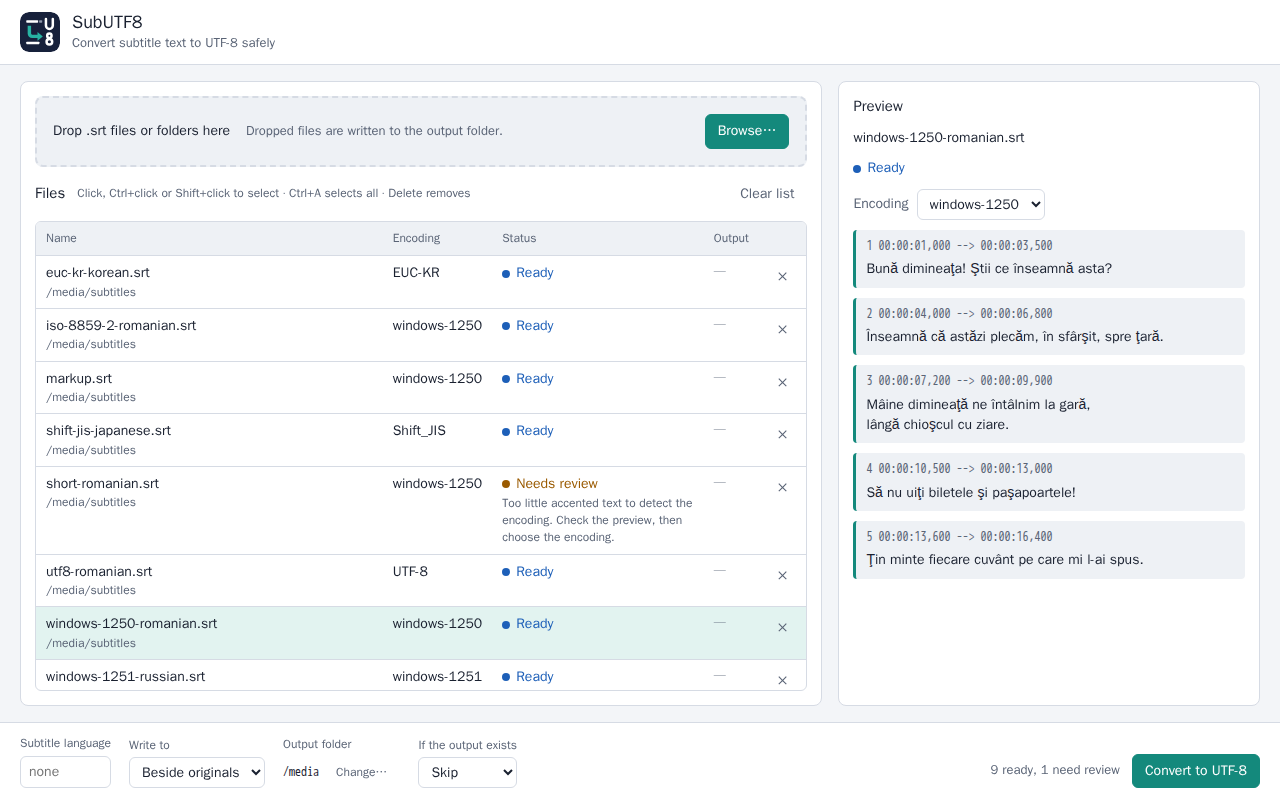
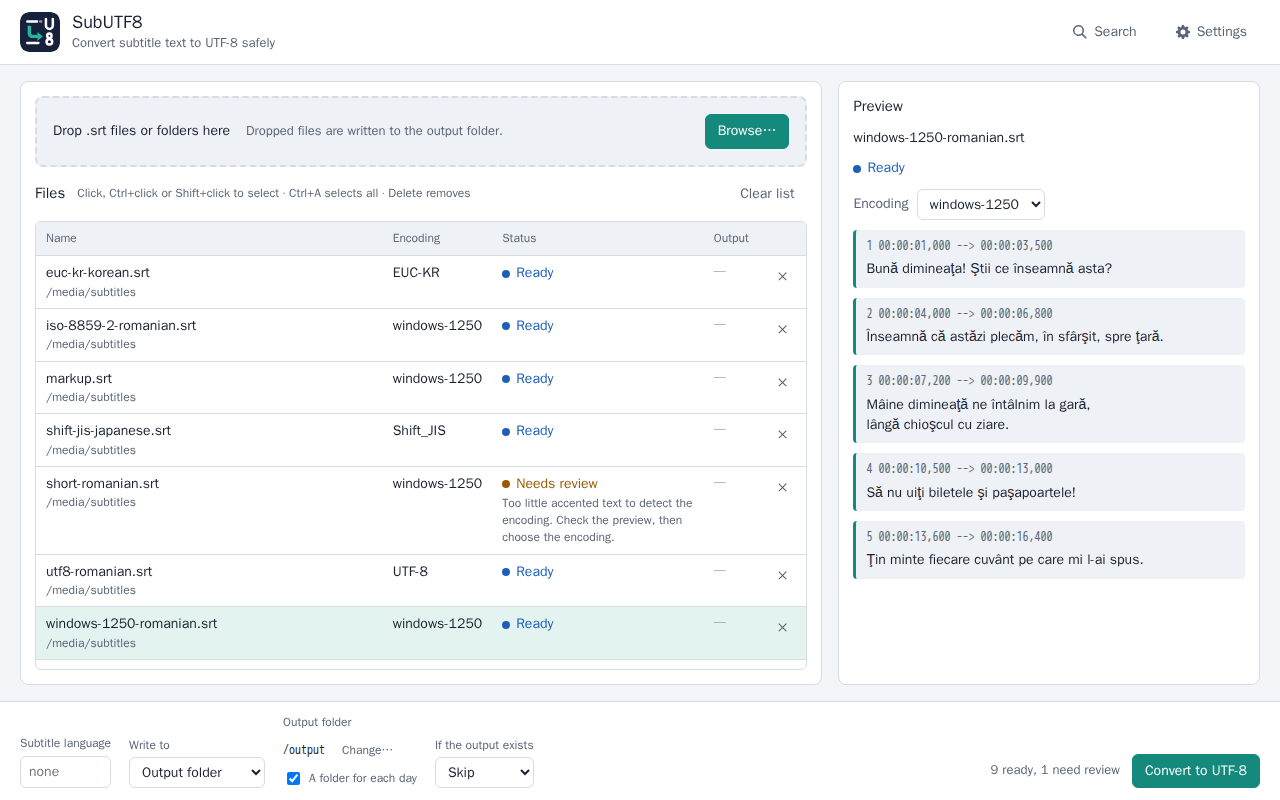
docs: README and screenshots for settings, search, watch folders and updates
The README explains Settings, the daily output folders, search, Docker
watch folders and in-app updates, the new /data and /output mounts, the
TZ, SUBUTF8_WATCH_INTERVAL and SUBUTF8_UPDATE_CHECK variables, how
updates work on each install, and that the only outgoing connection is
the daily update check to GitHub.

The screenshots show the new Search and Settings buttons, converted
files in the day's folder, and two new views: Search and Settings. They
use SubUTF8's own sample subtitles, as before.

diff --git a/README.md b/README.md
@@ -20,9 +20,17 @@ SubUTF8 converts the text encoding of `.srt` subtitle files to UTF-8 without cha
 
 ![Files and preview](docs/screenshots/files.png)
 
-**Results** — every file converted and verified, next to its untouched original:
+**Results** — every file converted and verified, in today's folder under `/output`, with the originals untouched:
 
 ![Results](docs/screenshots/results.png)
+
+**Search** — Ctrl+K finds settings, files in the list and every file converted before:
+
+![Search](docs/screenshots/search.png)
+
+**Settings** — the defaults SubUTF8 starts with, the theme and, in Docker, folders to watch:
+
+![Settings](docs/screenshots/settings.png)
 
 *The files shown are SubUTF8's own sample subtitles, in ten different encodings.*
 
@@ -41,7 +49,14 @@ SubUTF8 converts the text encoding of `.srt` subtitle files to UTF-8 without cha
 - **Originals are never changed** — outputs go beside them (`Film1.srt`, or `Film.ro.srt` with a language) or into an output folder you choose.
 - **Verified writes** — each output is written to a temporary file, read back and checked before it gets its name. A failure leaves nothing behind.
 - **Existing outputs** — skip, rename or overwrite, as you choose. A file in the list is never overwritten.
-- **Offline** — no telemetry, no update checks, no outgoing connections.
+- **Private** — no telemetry. The only outgoing connection is a check of GitHub for a newer release, once a day; turn it off in Settings or with `SUBUTF8_UPDATE_CHECK=0`.
+
+### Settings, search and automation
+- **Saved defaults** — subtitle language, where to write, output folder, what to do when an output exists, and a light or dark theme, in Settings.
+- **A folder for each day** — outputs can go into dated folders such as `2026-09-27`; in Docker, the mounted `/output` keeps every converted file this way.
+- **Search** — one box (**Ctrl+K**) finds settings, files in the list, and every file converted before, by name, folder, encoding, language or date.
+- **Watch folders (Docker)** — new subtitles in chosen folders are converted automatically with your saved defaults, once they have finished copying. Existing files are never replaced.
+- **Updates** — a notice when a new version is out. The desktop app downloads it, checks its SHA-256, installs it with your password and restarts; Docker shows the command to pull it.
 
 ### Interface
 - **File-manager selection** — click, Ctrl+click, Shift+click, Ctrl+A, the arrow keys and Delete, in the file list and in Browse.
@@ -58,11 +73,11 @@ SubUTF8 converts the text encoding of `.srt` subtitle files to UTF-8 without cha
 ```bash
 mkdir -p ~/subutf8 && cd ~/subutf8
 wget https://raw.githubusercontent.com/aiulian25/subutf8/main/docker-compose.yml
-nano docker-compose.yml # set your subtitles folder
+nano docker-compose.yml # set your subtitles folder, the output folder and your time zone
 docker compose up -d
 ```
 
-Open **http://&lt;server-ip&gt;:61880** from any machine on your network.
+Create the output folder before the first start, so it belongs to you (`PUID`/`PGID`). Open **http://&lt;server-ip&gt;:61880** from any machine on your network.
 
 > **Just pull, never build.** `ghcr.io/aiulian25/subutf8:latest` is a ready-made `linux/amd64` image.
 
@@ -85,7 +100,12 @@ sudo dnf install ./subutf8-1.0.0-1.x86_64.rpm
 chmod +x SubUTF8-1.0.0-x86_64.AppImage
 ./SubUTF8-1.0.0-x86_64.AppImage
 ```
-The first launch adds SubUTF8 to your application menu; `./SubUTF8-1.0.0-x86_64.AppImage --remove-integration` takes it out again.
+The first launch adds SubUTF8 to your application menu; `./SubUTF8-1.0.0-x86_64.AppImage --remove-integration` takes it out again. Uninstalling leaves your settings and history in `~/.config/subutf8`; delete that folder to remove them too.
+
+### Updating
+
+- **Desktop** — when a new version is out, SubUTF8 says so. **Settings → Updates → Download update**, then **Install update** (your password, in the system's own dialog) and **Restart SubUTF8**. The AppImage replaces itself.
+- **Docker** — `docker compose pull && docker compose up -d`. Settings and the history stay in the `subutf8-data` volume.
 
 ---
 
@@ -106,8 +126,11 @@ There are no arm64 builds.
 
 1. Add files with **Add files…** or **Add folder…**, which open the system's file picker, or drag `.srt` files or whole folders onto the window. In Docker, **Browse…** shows the mounted folders.
 2. Check each file's encoding and status. Select a file to preview its text; if it reads wrongly or needs review, choose another encoding. Lists select as in a file manager: Ctrl+click, Shift+click, Ctrl+A, the arrow keys and Delete.
-3. Optionally set the subtitle language, which adds a tag such as `Film.ro.srt`, where to write, and what to do when an output already exists.
+3. Optionally set the subtitle language, which adds a tag such as `Film.ro.srt`, where to write, and what to do when an output already exists. **Settings** saves these as the defaults, with the theme.
 4. Press **Convert to UTF-8** and read the results. Skipped or failed files are tried again on the next Convert, for example after choosing to overwrite.
+5. **Search** (Ctrl+K) finds any setting, any file in the list, and any file converted before, for example by typing `today` or a file name.
+
+In Docker, **Settings → Watch folders** adds folders whose new subtitles are converted automatically. Files that need a person, such as those whose encoding is unsure, wait in the list.
 
 ---
 
@@ -120,13 +143,20 @@ There are no arm64 builds.
 | `PUID` / `PGID` | `1000` | The user and group converted files belong to (`id -u`, `id -g`). Set them in a `.env` file next to `docker-compose.yml`; see [.env.example](.env.example) |
 | `SUBUTF8_BROWSE_ROOTS` | — | More folders to browse besides `/media` and `/mnt`, separated by colons. Mount them too |
 | `SUBUTF8_ALLOWED_HOSTS` | — | Host names to answer to besides IP addresses and `localhost`, separated by commas, for example behind a reverse proxy |
+| `TZ` | UTC | Your time zone, such as `Europe/London`; it names the daily folders and the times in the history |
+| `SUBUTF8_WATCH_INTERVAL` | `60` | How often watched folders are checked, in seconds |
+| `SUBUTF8_UPDATE_CHECK` | on | `0` turns the daily check for a new version off |
 
 ### Volume mounts
 
-Everything mounted under `/media` or `/mnt` shows up in Browse. Converted files go beside the originals, so mount writable; add `:ro` to protect the originals and choose an output folder in the app instead.
+Everything mounted under `/media` or `/mnt` shows up in Browse and can be watched. `/output` receives converted files, in a folder for each day, and `/data` keeps the settings and the history. Add `:ro` to the subtitle folders to protect the originals; converted files then go to `/output`.
 
 ```yaml
 volumes:
+  # Settings and the history
+  - subutf8-data:/data
+  # Converted files, one folder per day
+  - /path/to/converted:/output
   # One folder
   - /path/to/your/subtitles:/media/subtitles
   # More folders
@@ -147,12 +177,16 @@ volumes:
 - **Other websites are kept out.** Every request needs a header a web page on another site cannot add, and requests naming any host other than an IP address, `localhost` or an allowed name are rejected.
 - **Small and locked down.** The image holds one static program on `scratch`, runs as a non-root user with a read-only file system and no Linux capabilities, and reads and writes only the mounted folders.
 - **Desktop** — the app listens on `127.0.0.1` only, on a new random port at each launch, and every request carries a secret token.
+- **Updates** — the check and the download talk to GitHub only, over HTTPS; a download is kept only if its size and SHA-256 match the release's, and is checked again just before installing. SubUTF8 never runs as root: the package manager installs through `pkexec`, which asks for your password. The container never updates itself.
+- **Your data** — settings and the history of converted files (file names and paths, never subtitle text) stay in `~/.config/subutf8` on the desktop or `/data` in Docker, readable only by you.
 
 ---
 
 ## Troubleshooting
 
 - **"No folders are mounted"** — mount a folder under `/media` or `/mnt` (see Volume mounts) and restart the container.
+- **"The folder mounted at /output cannot be written to"** — give the server's folder to `PUID:PGID`, for example `sudo chown 1000:1000 /path/to/converted`.
+- **"Settings and the list of converted files cannot be saved"** — mount `/data`, as `docker-compose.yml` shows.
 - **"Folder is read-only: choose an output folder"** — the folder is mounted `:ro` or cannot be written by `PUID:PGID`. Choose an output folder in a writable mount, or fix the mount's permissions.
 - **"The output file already exists"** — choose Rename or Overwrite under *If the output exists* and press Convert again.
 - **A file shows *Needs review*** — select it, look at the preview, and pick the encoding that makes the text read correctly.
